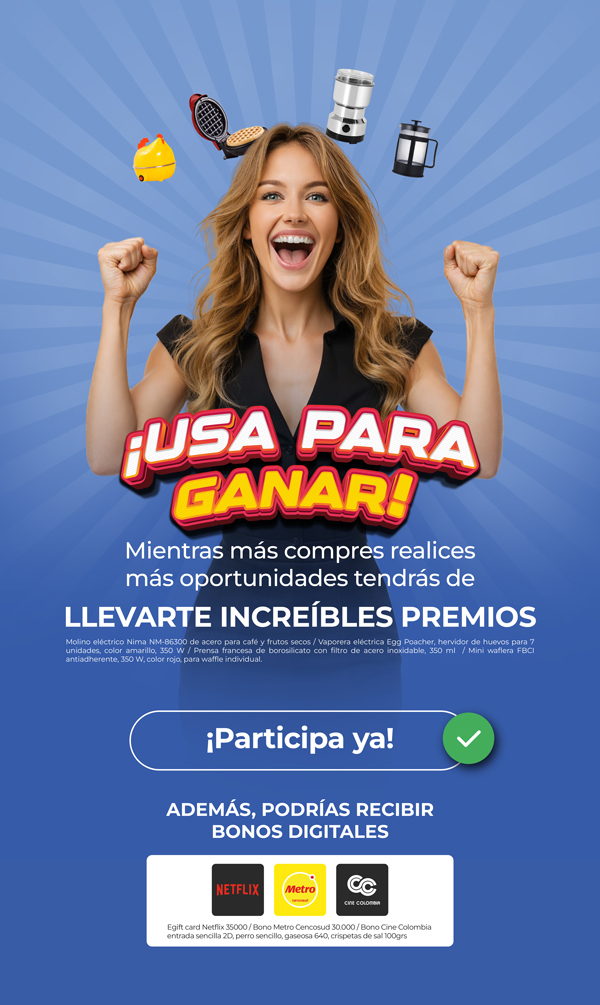
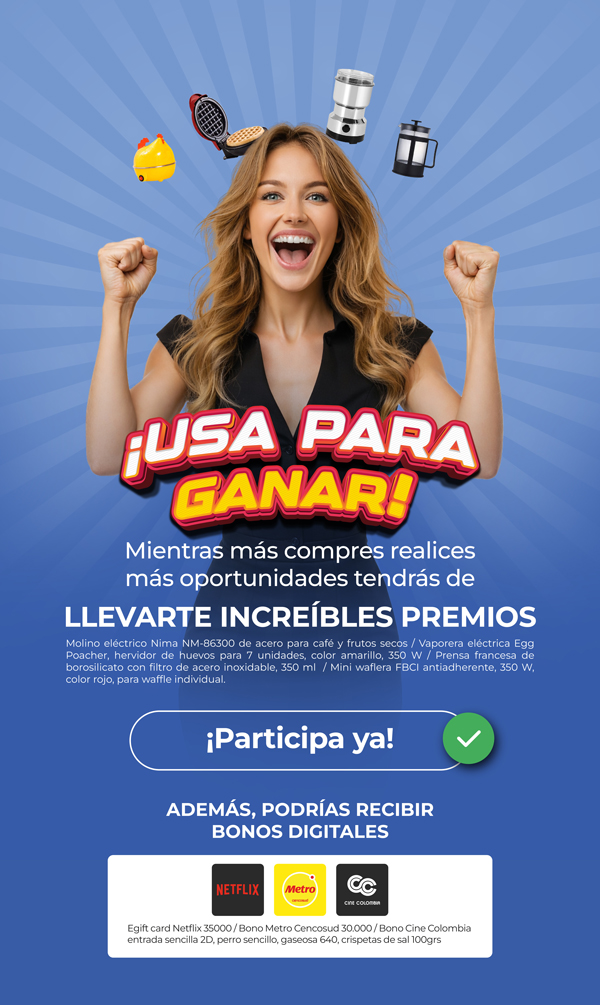
incluir texto en el saluso, actualizar imagen principal y reorganizar el footer

Changed region(s): [[0.18, 0.8328, 0.84, 0.9562], [0.09, 0.6169, 0.9, 0.6786]]

diff --git a/mail_usa_para_ganar_group_01.html b/mail_usa_para_ganar_group_01.html
@@ -17,12 +17,19 @@
 
                     <!-- Saludo personalizado - SIN ESPACIO con la imagen -->
                     <tr>
-                        <td style="padding: 0; background-color: hsl(220, 49%, 43%);">
+                        <td style="padding: 0; background-color: #385ca5;">
                             <table width="100%" cellpadding="0" cellspacing="0" border="0">
                                 <tr>
-                                    <td align="center" style="padding: 25px 20px;">
+                                    <td align="center" style="padding: 25px 20px 10px 20px;">
                                         <p style="margin: 0; color: #ffffff; font-family: Montserrat, Verdana, Arial, Helvetica, sans-serif; font-size: 24px; font-weight: 600; line-height: 1.3;">
                                             Hola, Luis
+                                        </p>
+                                    </td>
+                                </tr>
+                                <tr>
+                                    <td align="center" style="padding: 0 20px 25px 20px;">
+                                        <p style="margin: 0; color: #ffffff; font-family: Montserrat, Verdana, Arial, Helvetica, sans-serif; font-size: 18px; font-weight: 600; line-height: 1.4;">
+                                            ¡Participa y gana grandes premios!
                                         </p>
                                     </td>
                                 </tr>
@@ -41,13 +48,15 @@
                     </tr>
 
                     <!-- Footer -->
+
+                    <!-- Footer -->
                     <tr>
                         <td style="padding: 0;">
                             <table align="center" border="0" cellpadding="0" cellspacing="0" style="width: 100%;">
                                 <tbody>
                                     <!-- Logo centrado en la parte superior -->
                                     <tr>
-                                        <td align="center" style="background-color: #385ca5; padding: 30px 0 20px 0;">
+                                        <td align="center" style="background-color: #385ca5; padding: 30px 0 30px 0;">
                                             <a href="https://www.101fintech.com/" target="_blank"
                                                 rel="noopener noreferrer">
                                                 <img style="width: 180px; display: block;" alt="101Fintech" border="0"
@@ -76,50 +85,43 @@
                                         </td>
                                     </tr>
 
-                                    <!-- Email a la izquierda y redes sociales a la derecha -->
+                                    <!-- Email centrado -->
+                                    <tr>
+                                        <td align="center" style="background-color: #385ca5; padding: 0 20px 15px 20px;">
+                                            <a href="mailto:atencionalcliente@101fintech.com"
+                                                style="color: #ffffff; font-family: Montserrat, Verdana, Arial, Helvetica, sans-serif; font-size: 14px; line-height: 2rem; text-decoration: none;">
+                                                <img src="./ico_mail_white.png" alt="icono email"
+                                                    width="20" height="20"
+                                                    style="vertical-align: middle; border: 0; margin-right: 8px;">
+                                                atencionalcliente@101fintech.com
+                                            </a>
+                                        </td>
+                                    </tr>
+
+                                    <!-- Redes sociales centradas -->
                                     <tr>
                                         <td align="center" style="background-color: #385ca5; padding: 0 0 30px 0;">
-                                            <table border="0" cellpadding="0" cellspacing="0"
-                                                style="width: 100%; max-width: 600px; margin: 0 auto;">
-                                                <tbody>
-                                                    <tr>
-                                                        <!-- Email a la izquierda -->
-                                                        <td align="left"
-                                                            style="width: 50%; padding-left: 20px; vertical-align: middle;">
-                                                            <a href="mailto:atencionalcliente@101fintech.com"
-                                                                style="color: #ffffff; font-family: Montserrat, Verdana, Arial, Helvetica, sans-serif; font-size: 12px; line-height: 2rem; text-decoration: none; white-space: nowrap;">
-                                                                <img src="./ico_mail_white.png" alt="icono email"
-                                                                    width="20" height="20"
-                                                                    style="vertical-align: middle; border: 0;">
-                                                                atencionalcliente@101fintech.com
-                                                            </a>
-                                                        </td>
-
-                                                        <!-- Redes sociales a la derecha -->
-                                                        <td align="right"
-                                                            style="width: 50%; padding-right: 20px; vertical-align: middle;">
-                                                            <a href="https://www.facebook.com/1cero1Fintech"
-                                                                target="_blank" rel="noopener noreferrer"
-                                                                style="text-decoration: none;">
-                                                                <img style="width: 23px; margin-right: 10px; border: 0;"
-                                                                    src="./ico_fb_white.png" alt="Facebook">
-                                                            </a>
-                                                            <a href="https://www.instagram.com/101fintechoficial"
-                                                                target="_blank" rel="noopener noreferrer"
-                                                                style="text-decoration: none;">
-                                                                <img style="width: 23px; border: 0;"
-                                                                    src="./ico_inst_white.png" alt="Instagram">
-                                                            </a>
-                                                        </td>
-                                                    </tr>
-                                                </tbody>
-                                            </table>
+                                            <a href="https://www.facebook.com/1cero1Fintech"
+                                                target="_blank" rel="noopener noreferrer"
+                                                style="text-decoration: none;">
+                                                <img style="width: 23px; margin-right: 10px; border: 0;"
+                                                    src="./ico_fb_white.png" alt="Facebook">
+                                            </a>
+                                            <a href="https://www.instagram.com/101fintechoficial"
+                                                target="_blank" rel="noopener noreferrer"
+                                                style="text-decoration: none;">
+                                                <img style="width: 23px; border: 0;"
+                                                    src="./ico_inst_white.png" alt="Instagram">
+                                            </a>
                                         </td>
                                     </tr>
                                 </tbody>
                             </table>
                         </td>
                     </tr>
+
+
+                    
 
                     <!-- Texto legal -->
                     <tr>

diff --git a/mail_usa_para_ganar_group_02.html b/mail_usa_para_ganar_group_02.html
@@ -41,13 +41,14 @@
                     </tr>
 
                     <!-- Footer -->
+                    <!-- Footer -->
                     <tr>
                         <td style="padding: 0;">
                             <table align="center" border="0" cellpadding="0" cellspacing="0" style="width: 100%;">
                                 <tbody>
                                     <!-- Logo centrado en la parte superior -->
                                     <tr>
-                                        <td align="center" style="background-color: #385ca5; padding: 30px 0 20px 0;">
+                                        <td align="center" style="background-color: #385ca5; padding: 30px 0 30px 0;">
                                             <a href="https://www.101fintech.com/" target="_blank"
                                                 rel="noopener noreferrer">
                                                 <img style="width: 180px; display: block;" alt="101Fintech" border="0"
@@ -76,44 +77,34 @@
                                         </td>
                                     </tr>
 
-                                    <!-- Email a la izquierda y redes sociales a la derecha -->
+                                    <!-- Email centrado -->
+                                    <tr>
+                                        <td align="center" style="background-color: #385ca5; padding: 0 20px 15px 20px;">
+                                            <a href="mailto:atencionalcliente@101fintech.com"
+                                                style="color: #ffffff; font-family: Montserrat, Verdana, Arial, Helvetica, sans-serif; font-size: 14px; line-height: 2rem; text-decoration: none;">
+                                                <img src="./ico_mail_white.png" alt="icono email"
+                                                    width="20" height="20"
+                                                    style="vertical-align: middle; border: 0; margin-right: 8px;">
+                                                atencionalcliente@101fintech.com
+                                            </a>
+                                        </td>
+                                    </tr>
+
+                                    <!-- Redes sociales centradas -->
                                     <tr>
                                         <td align="center" style="background-color: #385ca5; padding: 0 0 30px 0;">
-                                            <table border="0" cellpadding="0" cellspacing="0"
-                                                style="width: 100%; max-width: 600px; margin: 0 auto;">
-                                                <tbody>
-                                                    <tr>
-                                                        <!-- Email a la izquierda -->
-                                                        <td align="left"
-                                                            style="width: 50%; padding-left: 20px; vertical-align: middle;">
-                                                            <a href="mailto:atencionalcliente@101fintech.com"
-                                                                style="color: #ffffff; font-family: Montserrat, Verdana, Arial, Helvetica, sans-serif; font-size: 12px; line-height: 2rem; text-decoration: none; white-space: nowrap;">
-                                                                <img src="./ico_mail_white.png" alt="icono email"
-                                                                    width="20" height="20"
-                                                                    style="vertical-align: middle; border: 0;">
-                                                                atencionalcliente@101fintech.com
-                                                            </a>
-                                                        </td>
-
-                                                        <!-- Redes sociales a la derecha -->
-                                                        <td align="right"
-                                                            style="width: 50%; padding-right: 20px; vertical-align: middle;">
-                                                            <a href="https://www.facebook.com/1cero1Fintech"
-                                                                target="_blank" rel="noopener noreferrer"
-                                                                style="text-decoration: none;">
-                                                                <img style="width: 23px; margin-right: 10px; border: 0;"
-                                                                    src="./ico_fb_white.png" alt="Facebook">
-                                                            </a>
-                                                            <a href="https://www.instagram.com/101fintechoficial"
-                                                                target="_blank" rel="noopener noreferrer"
-                                                                style="text-decoration: none;">
-                                                                <img style="width: 23px; border: 0;"
-                                                                    src="./ico_inst_white.png" alt="Instagram">
-                                                            </a>
-                                                        </td>
-                                                    </tr>
-                                                </tbody>
-                                            </table>
+                                            <a href="https://www.facebook.com/1cero1Fintech"
+                                                target="_blank" rel="noopener noreferrer"
+                                                style="text-decoration: none;">
+                                                <img style="width: 23px; margin-right: 10px; border: 0;"
+                                                    src="./ico_fb_white.png" alt="Facebook">
+                                            </a>
+                                            <a href="https://www.instagram.com/101fintechoficial"
+                                                target="_blank" rel="noopener noreferrer"
+                                                style="text-decoration: none;">
+                                                <img style="width: 23px; border: 0;"
+                                                    src="./ico_inst_white.png" alt="Instagram">
+                                            </a>
                                         </td>
                                     </tr>
                                 </tbody>

diff --git a/mail_usa_para_ganar_group_03.html b/mail_usa_para_ganar_group_03.html
@@ -41,13 +41,14 @@
                     </tr>
 
                     <!-- Footer -->
+                    <!-- Footer -->
                     <tr>
                         <td style="padding: 0;">
                             <table align="center" border="0" cellpadding="0" cellspacing="0" style="width: 100%;">
                                 <tbody>
                                     <!-- Logo centrado en la parte superior -->
                                     <tr>
-                                        <td align="center" style="background-color: #385ca5; padding: 30px 0 20px 0;">
+                                        <td align="center" style="background-color: #385ca5; padding: 30px 0 30px 0;">
                                             <a href="https://www.101fintech.com/" target="_blank"
                                                 rel="noopener noreferrer">
                                                 <img style="width: 180px; display: block;" alt="101Fintech" border="0"
@@ -76,44 +77,34 @@
                                         </td>
                                     </tr>
 
-                                    <!-- Email a la izquierda y redes sociales a la derecha -->
+                                    <!-- Email centrado -->
+                                    <tr>
+                                        <td align="center" style="background-color: #385ca5; padding: 0 20px 15px 20px;">
+                                            <a href="mailto:atencionalcliente@101fintech.com"
+                                                style="color: #ffffff; font-family: Montserrat, Verdana, Arial, Helvetica, sans-serif; font-size: 14px; line-height: 2rem; text-decoration: none;">
+                                                <img src="./ico_mail_white.png" alt="icono email"
+                                                    width="20" height="20"
+                                                    style="vertical-align: middle; border: 0; margin-right: 8px;">
+                                                atencionalcliente@101fintech.com
+                                            </a>
+                                        </td>
+                                    </tr>
+
+                                    <!-- Redes sociales centradas -->
                                     <tr>
                                         <td align="center" style="background-color: #385ca5; padding: 0 0 30px 0;">
-                                            <table border="0" cellpadding="0" cellspacing="0"
-                                                style="width: 100%; max-width: 600px; margin: 0 auto;">
-                                                <tbody>
-                                                    <tr>
-                                                        <!-- Email a la izquierda -->
-                                                        <td align="left"
-                                                            style="width: 50%; padding-left: 20px; vertical-align: middle;">
-                                                            <a href="mailto:atencionalcliente@101fintech.com"
-                                                                style="color: #ffffff; font-family: Montserrat, Verdana, Arial, Helvetica, sans-serif; font-size: 12px; line-height: 2rem; text-decoration: none; white-space: nowrap;">
-                                                                <img src="./ico_mail_white.png" alt="icono email"
-                                                                    width="20" height="20"
-                                                                    style="vertical-align: middle; border: 0;">
-                                                                atencionalcliente@101fintech.com
-                                                            </a>
-                                                        </td>
-
-                                                        <!-- Redes sociales a la derecha -->
-                                                        <td align="right"
-                                                            style="width: 50%; padding-right: 20px; vertical-align: middle;">
-                                                            <a href="https://www.facebook.com/1cero1Fintech"
-                                                                target="_blank" rel="noopener noreferrer"
-                                                                style="text-decoration: none;">
-                                                                <img style="width: 23px; margin-right: 10px; border: 0;"
-                                                                    src="./ico_fb_white.png" alt="Facebook">
-                                                            </a>
-                                                            <a href="https://www.instagram.com/101fintechoficial"
-                                                                target="_blank" rel="noopener noreferrer"
-                                                                style="text-decoration: none;">
-                                                                <img style="width: 23px; border: 0;"
-                                                                    src="./ico_inst_white.png" alt="Instagram">
-                                                            </a>
-                                                        </td>
-                                                    </tr>
-                                                </tbody>
-                                            </table>
+                                            <a href="https://www.facebook.com/1cero1Fintech"
+                                                target="_blank" rel="noopener noreferrer"
+                                                style="text-decoration: none;">
+                                                <img style="width: 23px; margin-right: 10px; border: 0;"
+                                                    src="./ico_fb_white.png" alt="Facebook">
+                                            </a>
+                                            <a href="https://www.instagram.com/101fintechoficial"
+                                                target="_blank" rel="noopener noreferrer"
+                                                style="text-decoration: none;">
+                                                <img style="width: 23px; border: 0;"
+                                                    src="./ico_inst_white.png" alt="Instagram">
+                                            </a>
                                         </td>
                                     </tr>
                                 </tbody>

diff --git a/mail_usa_para_ganar_group_04.html b/mail_usa_para_ganar_group_04.html
@@ -41,13 +41,14 @@
                     </tr>
 
                     <!-- Footer -->
+                    <!-- Footer -->
                     <tr>
                         <td style="padding: 0;">
                             <table align="center" border="0" cellpadding="0" cellspacing="0" style="width: 100%;">
                                 <tbody>
                                     <!-- Logo centrado en la parte superior -->
                                     <tr>
-                                        <td align="center" style="background-color: #385ca5; padding: 30px 0 20px 0;">
+                                        <td align="center" style="background-color: #385ca5; padding: 30px 0 30px 0;">
                                             <a href="https://www.101fintech.com/" target="_blank"
                                                 rel="noopener noreferrer">
                                                 <img style="width: 180px; display: block;" alt="101Fintech" border="0"
@@ -76,44 +77,34 @@
                                         </td>
                                     </tr>
 
-                                    <!-- Email a la izquierda y redes sociales a la derecha -->
+                                    <!-- Email centrado -->
+                                    <tr>
+                                        <td align="center" style="background-color: #385ca5; padding: 0 20px 15px 20px;">
+                                            <a href="mailto:atencionalcliente@101fintech.com"
+                                                style="color: #ffffff; font-family: Montserrat, Verdana, Arial, Helvetica, sans-serif; font-size: 14px; line-height: 2rem; text-decoration: none;">
+                                                <img src="./ico_mail_white.png" alt="icono email"
+                                                    width="20" height="20"
+                                                    style="vertical-align: middle; border: 0; margin-right: 8px;">
+                                                atencionalcliente@101fintech.com
+                                            </a>
+                                        </td>
+                                    </tr>
+
+                                    <!-- Redes sociales centradas -->
                                     <tr>
                                         <td align="center" style="background-color: #385ca5; padding: 0 0 30px 0;">
-                                            <table border="0" cellpadding="0" cellspacing="0"
-                                                style="width: 100%; max-width: 600px; margin: 0 auto;">
-                                                <tbody>
-                                                    <tr>
-                                                        <!-- Email a la izquierda -->
-                                                        <td align="left"
-                                                            style="width: 50%; padding-left: 20px; vertical-align: middle;">
-                                                            <a href="mailto:atencionalcliente@101fintech.com"
-                                                                style="color: #ffffff; font-family: Montserrat, Verdana, Arial, Helvetica, sans-serif; font-size: 12px; line-height: 2rem; text-decoration: none; white-space: nowrap;">
-                                                                <img src="./ico_mail_white.png" alt="icono email"
-                                                                    width="20" height="20"
-                                                                    style="vertical-align: middle; border: 0;">
-                                                                atencionalcliente@101fintech.com
-                                                            </a>
-                                                        </td>
-
-                                                        <!-- Redes sociales a la derecha -->
-                                                        <td align="right"
-                                                            style="width: 50%; padding-right: 20px; vertical-align: middle;">
-                                                            <a href="https://www.facebook.com/1cero1Fintech"
-                                                                target="_blank" rel="noopener noreferrer"
-                                                                style="text-decoration: none;">
-                                                                <img style="width: 23px; margin-right: 10px; border: 0;"
-                                                                    src="./ico_fb_white.png" alt="Facebook">
-                                                            </a>
-                                                            <a href="https://www.instagram.com/101fintechoficial"
-                                                                target="_blank" rel="noopener noreferrer"
-                                                                style="text-decoration: none;">
-                                                                <img style="width: 23px; border: 0;"
-                                                                    src="./ico_inst_white.png" alt="Instagram">
-                                                            </a>
-                                                        </td>
-                                                    </tr>
-                                                </tbody>
-                                            </table>
+                                            <a href="https://www.facebook.com/1cero1Fintech"
+                                                target="_blank" rel="noopener noreferrer"
+                                                style="text-decoration: none;">
+                                                <img style="width: 23px; margin-right: 10px; border: 0;"
+                                                    src="./ico_fb_white.png" alt="Facebook">
+                                            </a>
+                                            <a href="https://www.instagram.com/101fintechoficial"
+                                                target="_blank" rel="noopener noreferrer"
+                                                style="text-decoration: none;">
+                                                <img style="width: 23px; border: 0;"
+                                                    src="./ico_inst_white.png" alt="Instagram">
+                                            </a>
                                         </td>
                                     </tr>
                                 </tbody>
